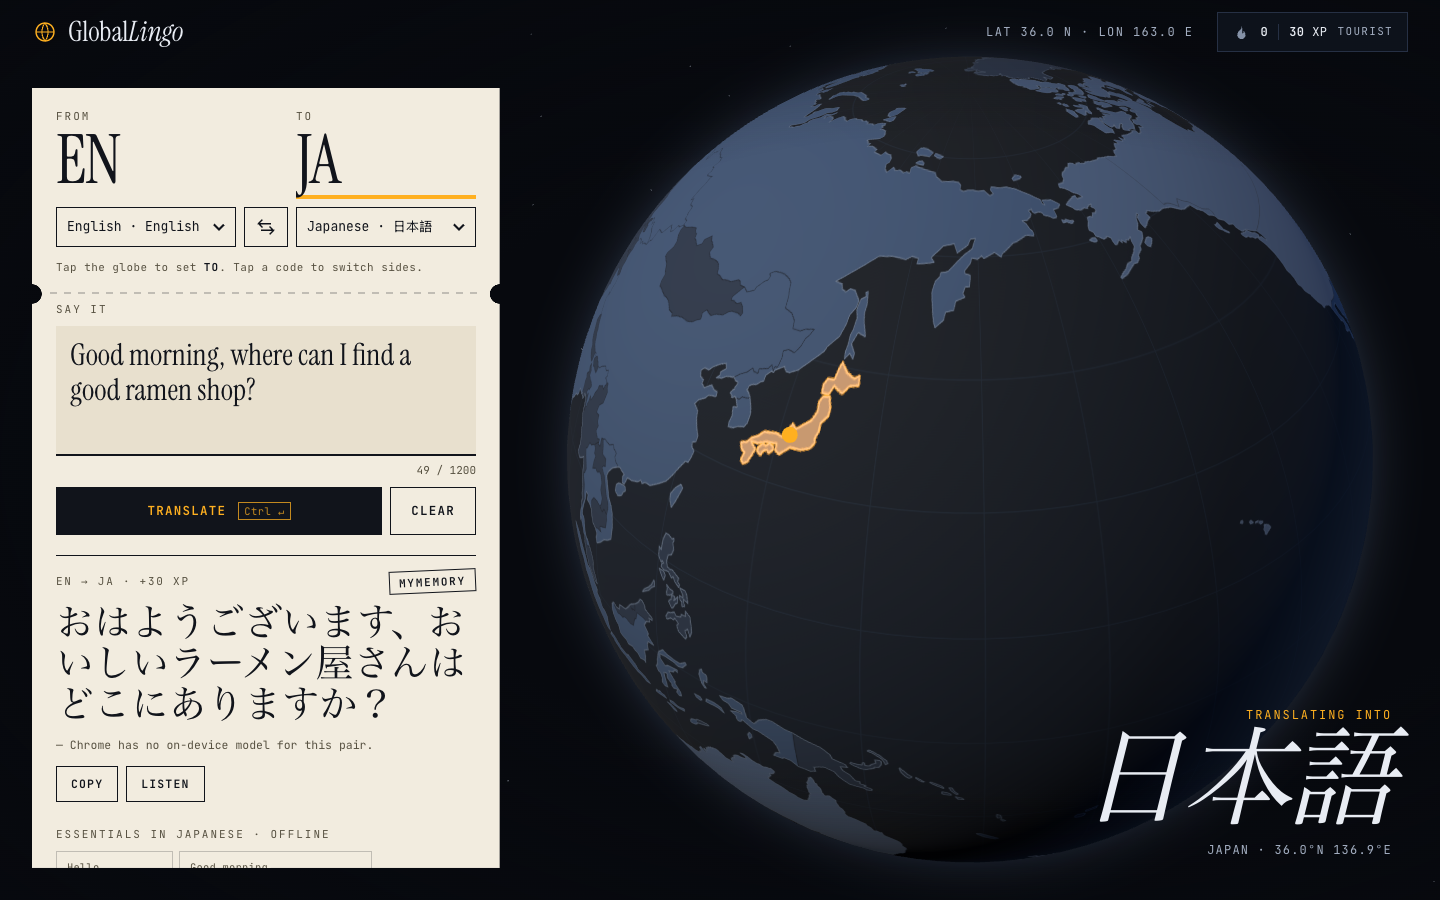
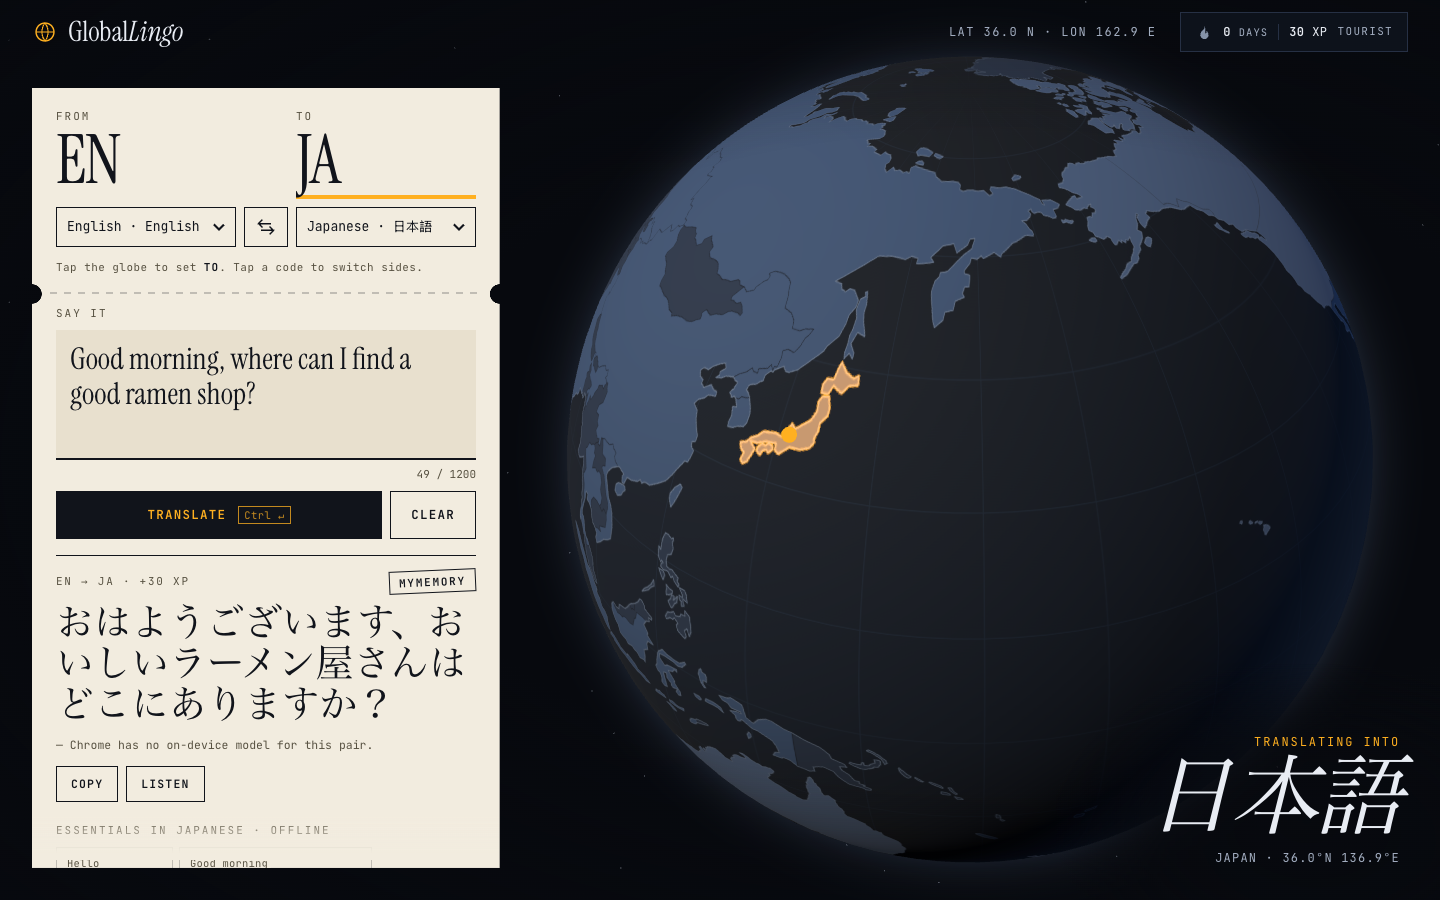
Polish: compact mobile toasts, scroll fade, readout scrim, hero globe, streak label

diff --git a/src/css/main.css b/src/css/main.css
@@ -97,9 +97,13 @@ a { color: inherit; }
   background: radial-gradient(90% 80% at var(--gcx) var(--gcy), transparent 45%, rgba(7, 9, 14, 0.72) 100%);
 }
 
-.readout { position: absolute; right: 48px; bottom: 40px; z-index: 2; text-align: right; pointer-events: none; max-width: 56vw; }
+.readout { position: absolute; right: 40px; bottom: 32px; z-index: 2; text-align: right; pointer-events: none; max-width: 40vw; }
+.readout::before { /* soft scrim so the type never fights the globe limb or highlighted countries */
+  content: ''; position: absolute; z-index: -1; inset: -70px -60px -50px -90px;
+  background: radial-gradient(ellipse at 62% 62%, rgba(7, 9, 14, 0.92) 0%, rgba(7, 9, 14, 0.7) 40%, rgba(7, 9, 14, 0) 72%);
+}
 .readout-kicker { font-size: 12px; letter-spacing: 0.16em; text-transform: uppercase; color: var(--amber); }
-.readout-name { font-family: var(--display); font-style: italic; font-size: clamp(56px, 7.4vw, 120px); line-height: 0.95; letter-spacing: -0.02em; margin: 6px 0 10px; overflow-wrap: anywhere; }
+.readout-name { font-family: var(--display); font-style: italic; font-size: clamp(48px, 6vw, 104px); line-height: 0.95; letter-spacing: -0.02em; margin: 6px 0 10px; overflow-wrap: anywhere; }
 .readout-sub { font-size: 12px; letter-spacing: 0.1em; text-transform: uppercase; color: var(--muted); }
 
 .webgl-note { position: absolute; left: 50%; bottom: 14px; transform: translateX(-50%); font-size: 11px; color: var(--muted); }
@@ -133,6 +137,7 @@ a { color: inherit; }
 .passport-btn svg { color: var(--dim); transition: color var(--t); }
 .passport-btn.has-streak svg { color: var(--amber); }
 .passport-btn b { font-weight: 600; font-variant-numeric: tabular-nums; }
+.pb-unit { font-size: 10.5px; letter-spacing: 0.1em; text-transform: uppercase; color: var(--muted); }
 .pb-sep { width: 1px; height: 16px; background: var(--line); }
 .pb-rank { color: var(--muted); text-transform: uppercase; letter-spacing: 0.12em; font-size: 11px; }
 
@@ -148,7 +153,7 @@ a { color: inherit; }
 }
 .stub::after { content: ''; position: absolute; left: 18px; right: 18px; bottom: 0; height: 2px; background: repeating-linear-gradient(90deg, var(--paper-line) 0 7px, transparent 7px 14px); }
 .paper {
-  flex: 1 1 auto; min-height: 0; overflow-y: auto; overscroll-behavior: contain; padding: 22px 24px 20px; scrollbar-width: thin; scrollbar-color: var(--paper-ink) transparent;
+  flex: 1 1 auto; min-height: 0; overflow-y: auto; overscroll-behavior: contain; padding: 18px 24px 8px; scrollbar-width: thin; scrollbar-color: var(--paper-ink) transparent;
   --m: radial-gradient(circle var(--notch) at 0 0, #0000 calc(var(--notch) - 0.5px), #000 var(--notch)) left / 51% 100% no-repeat,
         radial-gradient(circle var(--notch) at 100% 0, #0000 calc(var(--notch) - 0.5px), #000 var(--notch)) right / 51% 100% no-repeat;
   -webkit-mask: var(--m); mask: var(--m);
@@ -184,7 +189,7 @@ a { color: inherit; }
 
 .field-label { display: block; font-size: 11px; letter-spacing: 0.18em; text-transform: uppercase; color: var(--paper-muted); margin-bottom: 8px; font-weight: 400; }
 textarea {
-  display: block; width: 100%; resize: none; min-height: 112px; max-height: 40vh; padding: 12px 14px;
+  display: block; width: 100%; resize: none; min-height: 92px; max-height: 40vh; padding: 12px 14px;
   background: var(--paper-2); border: 0; border-bottom: 2px solid var(--paper-ink); border-radius: 0; color: var(--paper-ink);
   font: 400 30px/1.15 var(--display); transition: background var(--t);
 }
@@ -210,7 +215,7 @@ textarea:focus-visible { outline: 2px solid var(--paper-ink); outline-offset: 2p
 .btn-small { height: 36px; padding: 0 14px; font-size: 11.5px; }
 .btn-small:hover:not(:disabled):not([aria-disabled='true']) { background: var(--paper-ink); color: var(--paper); }
 
-.result { margin-top: 20px; min-height: 96px; }
+.result { margin-top: 16px; min-height: 84px; }
 .result-empty { border: 1.5px dashed var(--paper-line); padding: 16px; color: var(--paper-muted); font-size: 12px; }
 .link { display: inline-block; margin-top: 8px; color: var(--paper-ink); text-decoration: underline; text-underline-offset: 3px; text-decoration-thickness: 1.5px; font-size: 12px; transition: background var(--t); }
 .link:hover { background: var(--amber); }
@@ -242,7 +247,7 @@ progress:indeterminate { background: repeating-linear-gradient(90deg, var(--ambe
 .result-notes li.warn::before { content: '! '; }
 .result-actions { display: flex; gap: 8px; }
 
-.essentials { margin-top: 24px; }
+.essentials { margin-top: 20px; }
 .ess-offline { color: var(--paper-muted); }
 .chips { list-style: none; display: flex; flex-wrap: wrap; gap: 6px; }
 .chip { display: grid; text-align: left; gap: 1px; padding: 7px 10px 8px; border: 1px solid var(--paper-line); transition: background var(--t), border-color var(--t); max-width: 100%; }
@@ -253,7 +258,7 @@ progress:indeterminate { background: repeating-linear-gradient(90deg, var(--ambe
 .chip-more { padding: 0 12px; min-height: 48px; border: 1px dashed var(--paper-ink); font-size: 11px; letter-spacing: 0.1em; text-transform: uppercase; }
 .chip-more:hover { background: var(--paper-ink); color: var(--paper); }
 
-.engines { margin-top: 24px; }
+.engines { margin-top: 20px; }
 .engine-list { list-style: none; font-size: 11.5px; }
 .engine-list li { display: grid; grid-template-columns: 22px 1fr auto; gap: 8px; padding: 7px 0; border-top: 1px solid var(--paper-line); }
 .engine-list li:last-child { border-bottom: 1px solid var(--paper-line); }
@@ -264,7 +269,11 @@ progress:indeterminate { background: repeating-linear-gradient(90deg, var(--ambe
 li[data-ok='true'] .eng-state { color: var(--paper-ink); }
 li[data-ok='true'] .eng-state::before { content: '\25CF  '; }
 
-.built-by { margin-top: 20px; font-size: 11px; color: var(--paper-muted); }
+.paper::after { /* scroll cue: content fades out under the bottom edge while more is below */
+  content: ''; position: sticky; bottom: 0; display: block; height: 44px; margin: -20px -24px 0; pointer-events: none;
+  background: linear-gradient(to bottom, rgba(242, 236, 223, 0), var(--paper) 85%);
+}
+.built-by { margin-top: 20px; padding-bottom: 24px; font-size: 11px; color: var(--paper-muted); }
 .built-by a { color: var(--paper-ink); text-underline-offset: 3px; }
 .built-by a:hover { background: var(--amber); }
 
@@ -374,6 +383,7 @@ li[data-ok='true'] .eng-state::before { content: '\25CF  '; }
   .readout { right: auto; left: 16px; top: calc(var(--hud-h) + 2px); bottom: auto; text-align: left; max-width: 62vw; }
   .readout-kicker, .readout-sub { display: none; }
   .readout-name { font-size: 40px; margin: 0; }
+  .readout::before { display: none; }
   .btn kbd { display: none; }
   .webgl-note { display: none; }
 
@@ -387,11 +397,12 @@ li[data-ok='true'] .eng-state::before { content: '\25CF  '; }
   textarea { font-size: 24px; min-height: 84px; }
   .result-text { font-size: 32px; }
   .result-text.is-long { font-size: 22px; }
-  .toasts { right: 16px; left: 16px; width: auto; top: calc(var(--hud-h) + 8px); gap: 6px; }
-  .toast { padding: 7px 12px; gap: 10px; }
-  .toast-stamp { min-width: 40px; padding: 4px 6px 3px; font-size: 15px; }
-  .toast-title { font-size: 17px; }
-  .toast-sub { font-size: 10.5px; }
+  .toasts { right: 16px; left: 16px; width: auto; top: auto; bottom: calc(54dvh + 10px); gap: 6px; }
+  .toast { padding: 6px 12px; gap: 10px; align-items: center; }
+  .toast-stamp { min-width: 38px; padding: 3px 6px 2px; font-size: 14px; }
+  .toast-title { font-size: 16px; white-space: nowrap; overflow: hidden; text-overflow: ellipsis; }
+  .toast-sub { display: none; }
+  .paper::after { margin: -16px -16px 0; }
   .passport { width: 100vw; border-left: 0; }
   .pp-scroll { padding: 20px 18px 40px; }
   .pp-title { font-size: 48px; padding-right: 72px; }
@@ -402,6 +413,7 @@ li[data-ok='true'] .eng-state::before { content: '\25CF  '; }
 
 @media (max-width: 900px) and (max-height: 700px) {
   .deck { max-height: 60dvh; }
+  .toasts { bottom: calc(60dvh + 10px); }
   .readout-name { font-size: 32px; }
 }
 

diff --git a/src/js/main.js b/src/js/main.js
@@ -60,7 +60,9 @@ function toast({ stamp, title, sub, plain = false }) {
   if (sub) { const s = document.createElement('div'); s.className = 'toast-sub'; s.textContent = sub; body.append(s); }
   el.append(body);
   host.append(el);
-  setTimeout(() => { el.classList.add('out'); setTimeout(() => el.remove(), 200); }, plain ? 2600 : 3800);
+  const small = matchMedia('(max-width: 900px)').matches;
+  const life = small ? (plain ? 1700 : 2300) : (plain ? 2400 : 3200);
+  setTimeout(() => { el.classList.add('out'); setTimeout(() => el.remove(), 200); }, life);
 }
 
 const fmtCoord = (lat, lon) => `${Math.abs(lat).toFixed(1)}°${lat >= 0 ? 'N' : 'S'} ${Math.abs(lon).toFixed(1)}°${lon >= 0 ? 'E' : 'W'}`;
@@ -116,7 +118,7 @@ function renderChips() {
   if (src === to) src = to === 'en' ? 'es' : 'en';
   const items = phrasebook.list(src, to);
   const list = $('chips'); list.replaceChildren();
-  const visible = ui.showAll ? items : items.slice(0, 8);
+  const visible = ui.showAll ? items : items.slice(0, 6);
   for (const it of visible) {
     const li = document.createElement('li');
     const b = document.createElement('button');
@@ -128,7 +130,7 @@ function renderChips() {
     b.append(a, t);
     li.append(b); list.append(li);
   }
-  if (items.length > 8) {
+  if (items.length > 6) {
     const li = document.createElement('li');
     const b = document.createElement('button');
     b.type = 'button'; b.className = 'chip-more'; b.id = 'chip-more';
@@ -347,6 +349,7 @@ function announceRewards(rec, rankBefore, to) {
 function renderHud() {
   const s = streakInfo(state);
   $('hud-streak').textContent = s.count;
+  $('hud-unit').textContent = s.count === 1 ? 'day' : 'days';
   $('hud-xp').textContent = state.xp.toLocaleString();
   $('hud-rank').textContent = rankFor(state.xp).name;
   $('open-passport').classList.toggle('has-streak', s.count > 0);

diff --git a/index.html b/index.html
@@ -48,7 +48,7 @@
     <p class="coords mono" id="coords" aria-hidden="true">LAT 00.0 N · LON 000.0 E</p>
     <button class="passport-btn" id="open-passport" type="button" aria-haspopup="dialog" aria-controls="passport">
       <svg viewBox="0 0 24 24" width="18" height="18" aria-hidden="true"><path d="M13 2s1 4-1.5 6.5C9.5 10.5 7 12.6 7 16a5.5 5.5 0 0 0 11 0c0-2.2-1-3.8-2.2-5.2-.3 1.6-1.1 2.6-2.3 3.2.8-4-.2-8-.5-12Z" fill="currentColor"/></svg>
-      <span class="pb-streak"><b id="hud-streak">0</b><span class="sr"> day streak</span></span>
+      <span class="pb-streak" title="Day streak"><b id="hud-streak">0</b> <span class="pb-unit" id="hud-unit">day</span><span class="sr"> streak</span></span>
       <span class="pb-sep" aria-hidden="true"></span>
       <span class="pb-xp"><b id="hud-xp">0</b> XP</span>
       <span class="pb-rank" id="hud-rank">Tourist</span>
